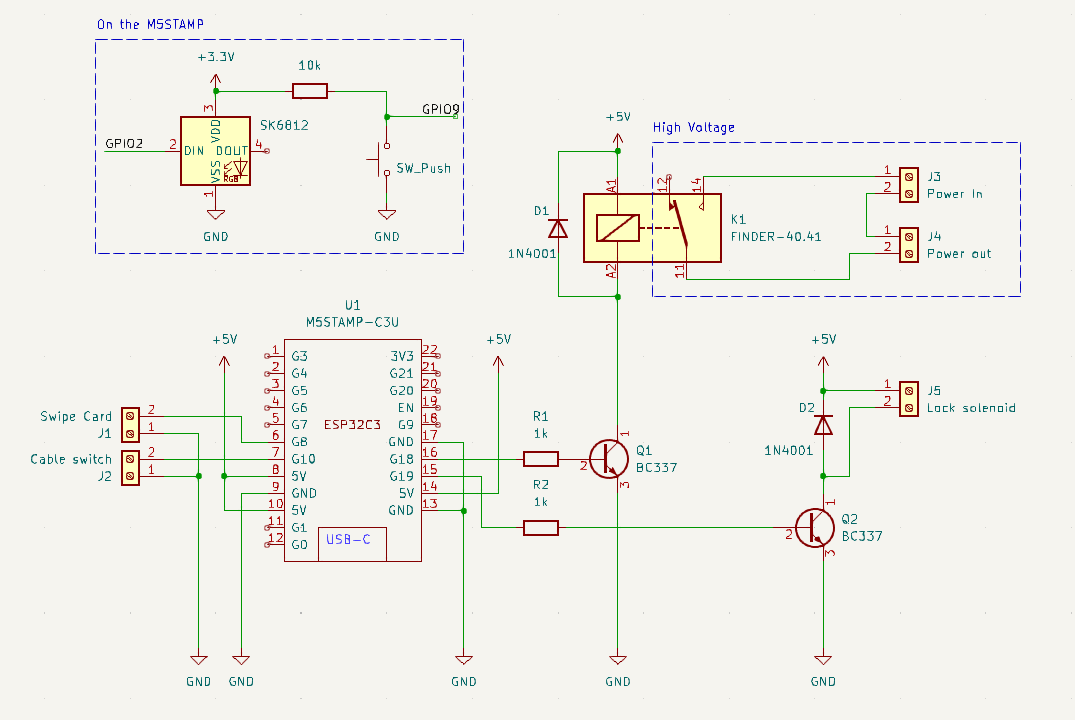
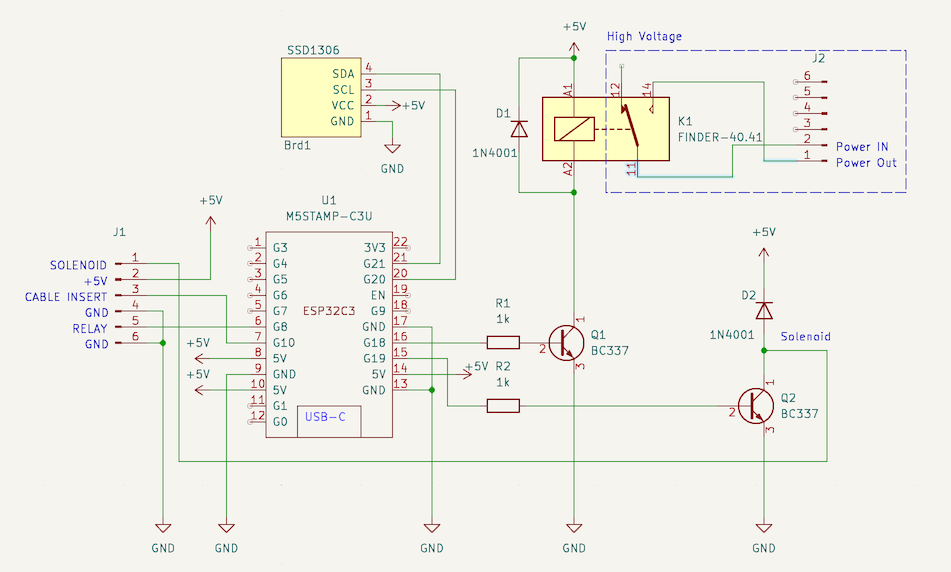
Part 2 in the rust on esp32 serie

diff --git a/content/240125_rust_on_esp32_2_hardware.md b/content/240125_rust_on_esp32_2_hardware.md
@@ -13,9 +13,15 @@ summary: "Focusing on the minimal hardware needed to build an EV Charger with Ru
     import { Lightbox } from 'svelte-lightbox';
 </script>
 
+> This is a series of articles about using Rust to program an ESP32 Microcontroller by building a minimal EV Charger.<br/>
+>  * Part 1: [A Proof of Concept](/blog/240101_rust_on_esp32)
+>  * Part 2: [A minimal EV Charger hardware setup](/blog/240125_rust_on_esp32_2_hardware) (this article)
+>  * Part 3: Network and Charger to backoffice communication (Wifi/ MQTT / OCPP)
+>  * Part 4: Optional: Charger to Car communication (Mode2) 
+
 The previous [article](/blog/240101_rust_on_esp32) was about try-ing to get Rust running on a esp32 microcontroller.
 
-In there I started to set up as a charger for an Electric Vehicle, lets dive more into that by desiging the hardware
+In there I started to set up as a charger for an Electric Vehicle, lets dive more into that by desiging the hardware.
 
 A simple as possible charger should:
 
@@ -23,14 +29,13 @@ A simple as possible charger should:
  * be able to lock the cable with a solenoid (or simulated by a led)
  * Allow swiping a card to start charging (or simulated with a button)
  * Have a relay to apply power to the cable
- * Visualize the state of the charger (the M5 Stamp has a multicolor led onboard)
+ * Visualize the state of the charger (the M5 Stamp has a multicolor led onboard, and I've added a small OLED display I had lying around)
 
-Putting all this into a schematic it looks something like this
+Putting all this into a schematic it looks something like this:
 
-## Schematic
 ![Schematic](/images/schematic.png)
 
-## State Machine
+## Managing State
 
 As a Charger goes through several states during it's operation (Available, Occupied, Charging, Error) 
 a FSM (Finite State Machine) looks like a good way to model this.
@@ -102,7 +107,32 @@ As we have configured the button in the code to subscribe to a positive edge eve
 We then call the transition function with the current state and the input event `Swipe` which will give us a new state `Chargng` and a output `LockedAndPowerIsOn`, we then set the hardware to whatever the output is telling us.
 
 
-So that's the hardware done, the next article will focus on Sending and retrieving OCPP Messages to a backend by configuring the Wifi and MQTT Publisher and Subscriber
+So that's the hardware done, I've added a small oled display with an i2c interface, with the rust library that exists for this display, displaying information is a breeze:
+
+```rust
+let peripherals = Peripherals::take().unwrap();
+let i2c = peripherals.i2c0;
+let sda = peripherals.pins.gpio21;
+let scl = peripherals.pins.gpio20;
+
+let i2c_config = I2cConfig::new().baudrate(100_000.into());
+let i2c = I2cDriver::new(i2c, sda, scl, &i2c_config)?;
+
+let interface = I2CDisplayInterface::new(i2c);
+let display = Ssd1306::new(
+        interface, DisplaySize128x64, DisplayRotation::Rotate180).into_terminal_mode();
+
+display.init();
+display.clear();
+
+write!(display, "Hello World");
+```
+
+Here's how it looks on a breadboard, I'm using the button and led that are on the m5 Stamp to simulate the swiping of a card and displaying the charger state, a blue led to simulate the relay and a jumper to simulate the inserting of a cable.
+
+![Breadboard](/images/breadboard.png)
+
+The next article will focus on sending and retrieving OCPP Messages to a backend by configuring the Wifi and MQTT Publisher and Subscriber.
 
 ## references
 * Code: https://github.com/gertjana/charger_rust_esp32_c3/tree/cad15fb3a088cdd82d7dbfd5f9d16512b37e4d6f

diff --git a/content/240101_rust_on_esp32.md b/content/240101_rust_on_esp32.md
@@ -13,6 +13,12 @@ summary: "Creating applications for ESP32 microcontrollers with the power of the
     import { Lightbox } from 'svelte-lightbox';
 </script>
 
+> This is a series of articles about using Rust to program an ESP32 Microcontroller by building a minimal EV Charger.<br/>
+>  * Part 1: [A Proof of Concept](/blog/240101_rust_on_esp32) (this article)
+>  * Part 2: [A minimal EV Charger hardware setup](/blog/240125_rust_on_esp32_2_hardware)
+>  * Part 3: Network and Charger to backoffice communication (Wifi/ MQTT / OCPP)
+>  * Part 4: Optional: Charger to Car communication (Mode2) 
+
 For the last couple of months, I've been learning myself how to program in [rust](https://rustlang.org)
 
 The main reason was I was intrigued by Rust's ownership / borrow model, which allows for functional programming, without the need of making everything immutable.

diff --git a/content/240226_rust_on_esp32_3_mqtt.md b/content/240226_rust_on_esp32_3_mqtt.md
@@ -5,13 +5,19 @@ date: "2024-02-26"
 category: code, make
 tags: rust, embedded, esp32, featured, ocpp, mqtt
 published: false
-image: "/images/rusty_charger.webp"
+image: "/images/charger_mqtt.png"
 summary: "Communicating with a backend using MQTT and OCPP"
 ---
 
 <script lang="ts">
     import { Lightbox } from 'svelte-lightbox';
 </script>
+
+> This is a series of articles about using Rust to program an ESP32 Microcontroller by building a minimal EV Charger.<br/>
+>  * Part 1: [A Proof of Concept](/blog/240101_rust_on_esp32)
+>  * Part 2: [A minimal EV Charger hardware setup](/blog/240125_rust_on_esp32_2_hardware)
+>  * Part 3: Network and Charger to backoffice communication (Wifi/ MQTT / OCPP) (this article)
+>  * Part 4: Optional: Charger to Car communication (Mode2) 
 
 
 ## references
